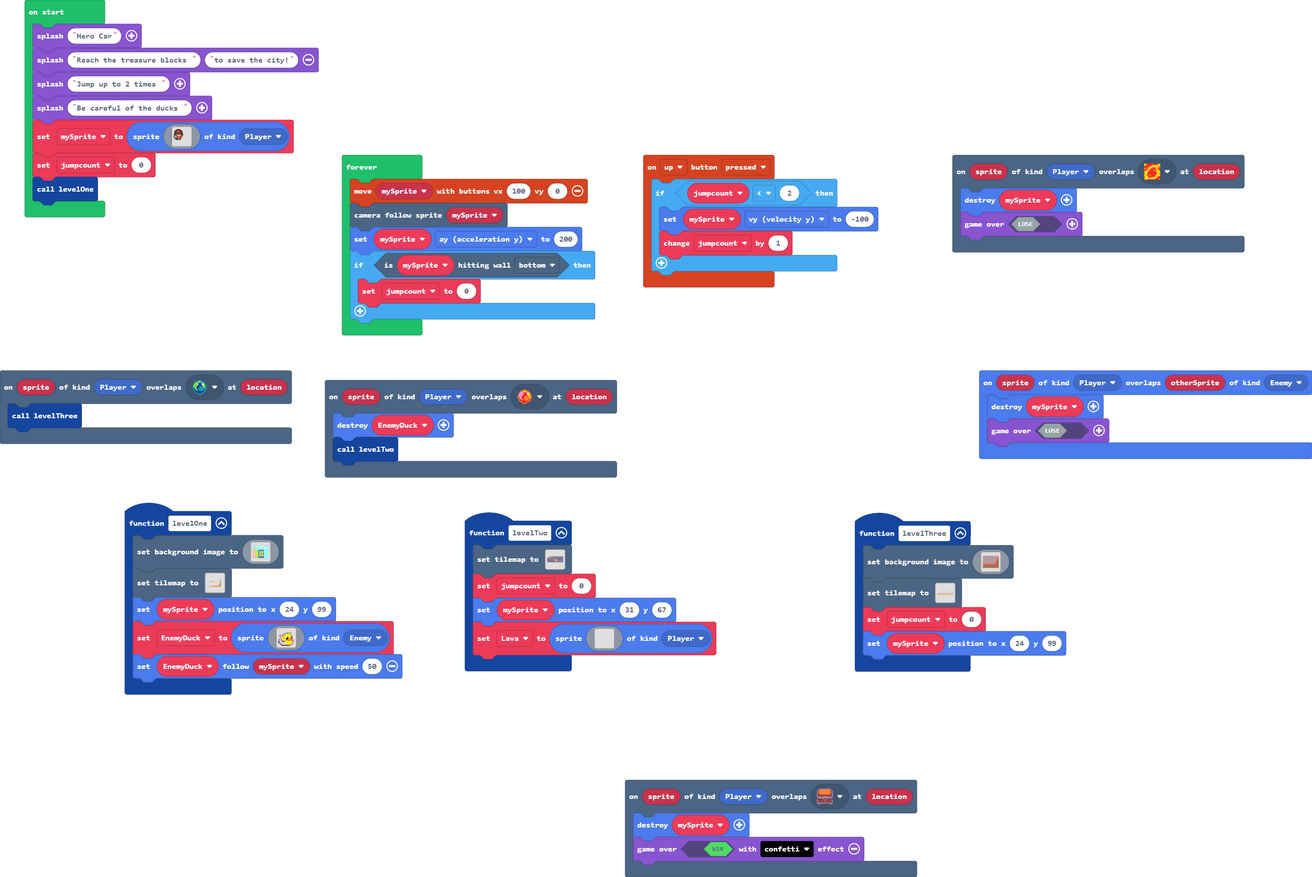
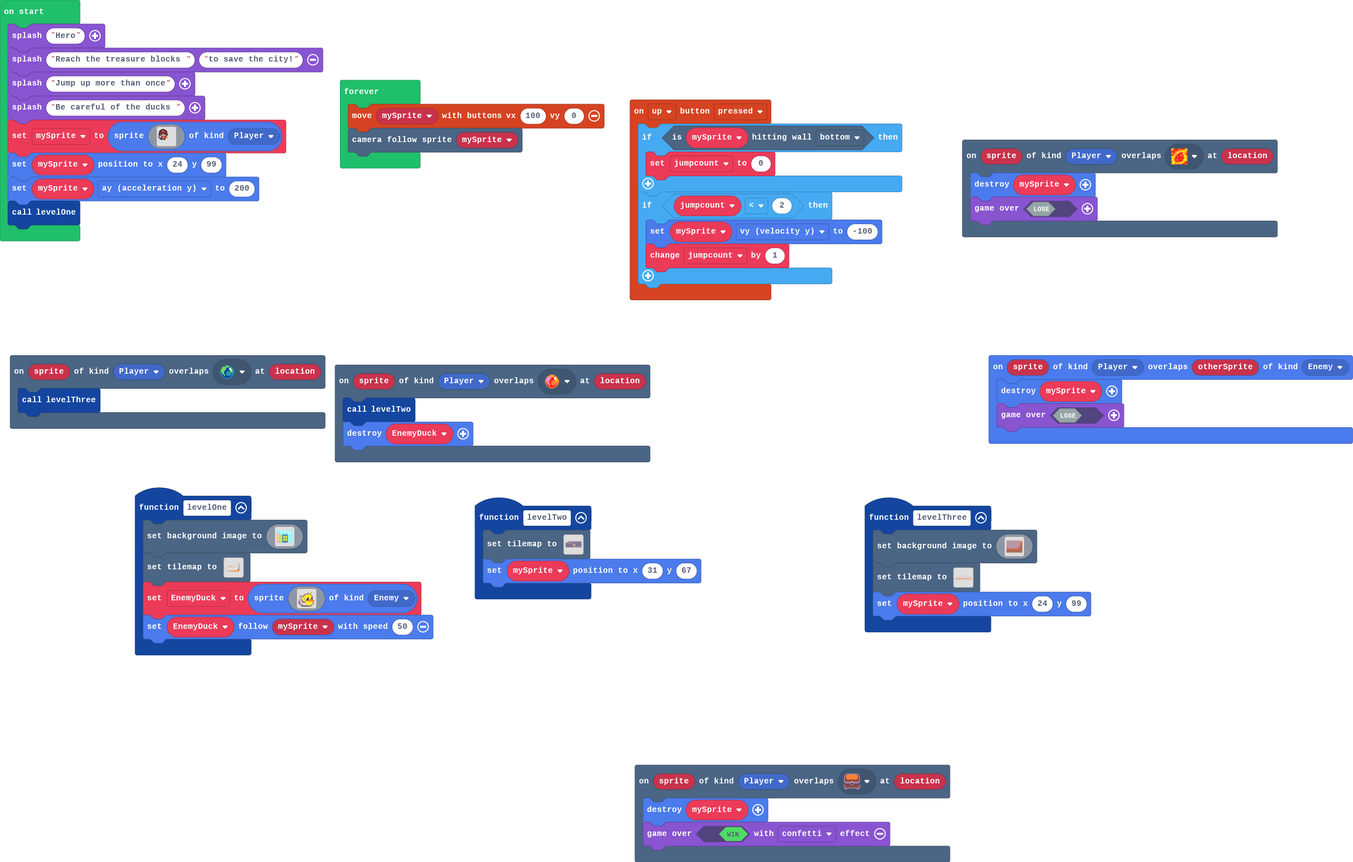
Update main.blocks, main.ts, tilemap.g.jres, tilemap.g.ts

diff --git a/tilemap.g.ts b/tilemap.g.ts
@@ -49,59 +49,6 @@ namespace myTiles {
 ......................................................................
 ......................................................................
 `, [myTiles.transparency16,sprites.vehicle.roadHorizontal,sprites.dungeon.hazardLava0,sprites.dungeon.chestClosed], TileScale.Sixteen);
-            case "level1":
-            case "level1":return tiles.createTilemap(hex`640032000000000000000000000000000000000000000000000000000000000000000000000000000000000000000000000000000000000000000000000000000000000000000000000000000000000000000000000000020200000000000000000000000000000000000000000000000000000000000000000000000000000000000000000000000000000000000000000000000000000000000000000000000000000000000000000000000000000000000000000000000000000202000000000000000000000000000000000000000000000000000000000000000000000000000000000000000000000000000000000000000000000000000000000000000000000000000000000000000000000000000000000000000000000000000002020000000000000000000000000000000000000000000000000000000000000000000000000000000000000000000000000000000000000000000000000000000000000000000000000000000000000000000000000000000000000000000000000000020200000000000000000000000000000000000000000000000000000000000000000000000000000000000000000000000000000000000000000000000000000000000000000000000000000000000000000000000000000000000000000000000000000202000000000000000000000000000000000000000000000000000000000000000000000000000000000000000000000000000000000000000000000000000000000000000000000000000000000000000000000000000000000000000000000000000002020000000000000000000000000000000000000000000000000000000000000000000000000000000000000000000000000000000000000000000000000000000000000000000000000000000000000000000000000000000000000000000000000001020200000000000000000000000000000000000000000000000000000000000000000000000000000000000000000000000000000000000000000000000000000000000000000000000000000000000000000000000000000000000000000000000000010202000000000000000000000000000000000000000000000000000000000000000000000000000000000000000000000000000000000000000000000000000000000000000000000000000000000000000000000000000000000000000000000000000102020000000000000000000000000000000000000000000000000000000000000000000000000000000000000000000000000000000000000000000000000000000000000000000000000000000000000000000000000000000000000000000000000001020200000000000000000000000000000000000000000000000000000000000000000000000000000000000000000000000000000000000000000000000000000000000000000000000000000000000000000000000000000000000000000000000000010202000000000000000000000000000000000000000000000000000000000000000000000000000000000000000000000000000000000400000000000000000000000000000000000000000000000000000000000000000000000000000000000000000102020000000000000000000000000000000000000000000000000000000000000000000000000000000000000000000000000000040000000000000000000000000000000000000000000000000000000000000000000000000000000000000000000001020200000000000000000000000000000000000000000000000000000000000000000000000000000000000000000000000000000000000404000000000000000000000000000000000000000000000404000000000000000000000000000000000000010202000000000000000000000000000000000000000000000000000000000000000000000000000000000004000000000004000000000000000000000000000000000000000000000000000000000000000000000000000000000000000000000000000102020000000000000000000000000000000000000000000000000000000000000000000000000000000004010101010101000000000000000404000000000000000000000000000000000000040000000000000400000000000000000000000000000001020200000000000000000000000000000000000000000000000000000000000000000000000000000004000101010101010000000000000000000000000000000000000000000000000400000000000000000000000000000000000000000000000000010202000000000000000000000000000000000000000000000000000000000000000000000000040000000001010101010100000000000000000000000000040000000400000004000000000000000000000000000000000000000000000000000000000102020000000000000000000000000000000000000000000000000000000000000000000000000000040404010101010101000000000000000000040400000000000000000000000000000000000000000000000000040000000000000000000000000001020200000000000000000000000000000000000000000000000000000000000000000000040401010101010101010101010000000000000000000000000000000000000000000000000000000000000000000000000000000000000000000000000000010202000000000000000000000000000000000000000000000000000000000000000000040505010101010101010101010101010101010101010101010101010101010101010101010101010101010101010504040400000000000000000000000000000102020000000000000000000000000000000000000000000000000000000000000000040505050101010101010101010101010101010101010101010101010101010101010101010101010101010101010105000000000000000000000000000000000001020200000000000000000000000000000000000000000000000000000000000004040505050505050505050505050505050505050505050505050505050505050505050505050505050505050505050505050000000404000000000000000000000000010202000000000000000000000000000000000000000000000000000000000000000505050505050505050505050505050505050505050505050505050505050505050505050505050505050505050505050500000000000000000400000000000000000102020000000000000000000000000000000000000000000000000000000000040105050505050505050505050505050505050505050505050505050505050505050505050505050505050505050505050505000000000000000000000000000000000001020200000000000000000000000000000000000000000000000000000000040505050505050505050505050505050505050505050505050505050505050505050505050505050505050505050505050505050000000000000000000000040400000400010202000000000000000000000000000000000000000000000000000000040505050505050505050505050505050505050505050505050505050505050505050505050505050505050505050505050505050500000000000000000000000000000000000102020000000000000000000000000000000000000000000000000000040505050505050505050505050505050505050505050505050505050505050505050505050505050505050505050505050505050505000000000000000000000000000004000001020200000000000000000000000000000000000000000000000000040505050505050505050505050505050505050505050505050505050505050505050505050505050505050505050505050505050505050000000000000000000000000000000000010202000000000000000000000000000000040404040404040404040505050505050505050505050505050505050505050505050505050505050505050505050505050505050505050505050505050505050500000000000000000000000000000004040102020000000000000000000000000000000505050505050505050505050505050505050505050505050505050505050505050505050505050505050505050505050505050505050505050505050505050505000000000000000000000000000400000001020200000000000000000000000000000005050505050505050505050505050505050505050505050505050505050505050505050505050505050505050505050505050505050505050505050505050505050000000000000000000000000000000001010202000000000000000000000000000000050505050505050505050505050505050505050505050505050505050505050505050505050505050505050505050505050505050505050505050505050505050500000000000000000000000404000001010202020000000000000000000000000000000000000000000000000000000000000000000000000000000000000000000000000000000000000000000000000000000000000000000000000000000000000000000000000000000000000000000000010202020200000000000000000000000000000000000000000000000000000000000000000000000000000000000000000000000000000000000000000000000000000000000000000000000000000000000000000000000000000000000004000000010102020202000000000000000000000000000000000000000000000000000000000000000000000000000000000000000000000000000000000000000000000000000000000000000000000000000000000000000000000000000000000004000000010102020202020000000000000000000000000000000000000000000000000000000000000000000000000000000000000000000000000000000000000000000000000000000000000000000000000000000000000000000000000000000000000000010102020202020200000000000000000000000000000000000000000000000000000000000000000000000000000000000000000000000000000000000000000000000000000000000000000000000000000000000000000000000000000000000000010102020202020202000000000000000000000000000000000000000000000000000000000000000000000000000000000000000000000000000000000000000000000000000000000000000000000000000000000000000000000000000000000400010102020202020202020000000000000000000000000000000000000000000000000000000000000000000000000000000000000000000000000000000000000000000000000000000000000000000000000000000000000000000000000000000000000102020202020202020200000000000000000000000000000000000000000000000000000000000000000000000000000000000000040000000004000000000000000000000000000000000000000000000000000000000000000000000000000000000101020202020202020202000000000000000000000000000000000000000000000000000000000000000000000404000000000000000000000000000000000400000000000000040000000000040004000000000000000004000000040000000004040101020202020202020202020000000000000000000000000000000000000000000000000000000000000000000000000000000400000000000000000000000000000000000000000000000000000000000000000000000000010101010101010101010101010101010101010101010100000000000000000000000000000000000000000000000000000000000000000000000000000000000000000000000000000000000000000004000000000004000000000000040000000400010101010101010101010101010101010101010101010101000000000000000000000000000000000000000000000000000000000000000004040404040505050101010101010101010101010101010101010101010101010101010101010101010101010101010101010101010101010101010101010101010101010000000000000000000000000000000000000000000000000000000000000004050505050505050101010101010101010101010101010101010101010101010101010101010101010101010101010101010101010101010101010101010101010101010100000000000000000000000000000000000000000000000000000000000004050505050505050101010101010101010101010101010101010101010101010101010101010101010101010101010101010101010101010101010101010101010101010101000000000000000000000000000000000000000000000600000000000004050505050505050101010101010101010101010101010101010101010101010101010101010101010101010101010101010101010101010101010101010101010101010101010000000000000000000000000000000303030303030307030303030304050505050505050101010101010101010101010101010101010101010101010101010101010101010101010101010101010101010101010101010101010101010101010101010100000000000000000000000000000004040404040404040404040404050505050505050101010101010101010101010101010101010101010101010101010101010101010101010101010101010101010101010101010101010101010101010101010101000000000000000000000000000000`, img`
-....................................................................................................
-....................................................................................................
-....................................................................................................
-....................................................................................................
-....................................................................................................
-....................................................................................................
-....................................................................................................
-....................................................................................................
-....................................................................................................
-....................................................................................................
-....................................................................................................
-.....................................2..............................................................
-...................................2................................................................
-......................................22......................22....................................
-..........................2.....2...................................................................
-.........................2.............22..................2......2.................................
-........................2...............................2...........................................
-.....................2.......................2...2...2..............................................
-.......................222...............22.........................2...............................
-...................22..222..........................................................................
-..................22222222......................................2222................................
-.................222222222222222222222222222222222222222222222222...................................
-...............22222222222222222222222222222222222222222222222222...22..............................
-................2222222222222222222222222222222222222222222222222........2..........................
-..............2.2222222222222222222222222222222222222222222222222...................................
-.............2222222222222222222222222222222222222222222222222222...........22..2...................
-............22222222222222222222222222222222222222222222222222222...................................
-...........222222222222222222222222222222222222222222222222222222..............2....................
-..........2222222222222222222222222222222222222222222222222222222...................................
-22222222222222222222222222222222222222222222222222222222222222222...............22..................
-22222222222222222222222222222222222222222222222222222222222222222.............2.....................
-22222222222222222222222222222222222222222222222222222222222222222...................................
-22222222222222222222222222222222222222222222222222222222222222222...........22......................
-....................................................................................................
-...........................................................................2........................
-..........................................................................2.........................
-....................................................................................................
-....................................................................................................
-.........................................................................2..........................
-....................................................................................................
-............................2....2..................................................................
-...................22................2.......2.....2.2........2...2....22...........................
-........................2...........................................................................
-..........................................2.....2......2...2........................................
-.................22222222...........................................................................
-................22222222............................................................................
-...............22222222.............................................................................
-..............22222222..............................................................................
-.............22222222...............................................................................
-22222222222222222222................................................................................
-`, [myTiles.transparency16,sprites.dungeon.hazardLava0,myTiles.tile2,sprites.builtin.coral2,sprites.vehicle.roadHorizontal,sprites.builtin.brick,sprites.dungeon.collectibleRedCrystal,sprites.builtin.coral0], TileScale.Sixteen);
             case "level4":
[1 lines of base64/hex data omitted]
 ...................2222222222......222222222222222222222222222222222222222222222222222222222222222222222222222222222222222222222222222222222
@@ -155,6 +102,78 @@ namespace myTiles {
 22222222222222222222222222222222222222222222222222222222222222222222222222222222222222222222222222222222222222222222222222222222222222222222
 22222222222222222222222222222222222222222222222222222222222222222222222222222222222222222222222222222222222222222222222222222222222222222222
 `, [myTiles.transparency16,sprites.dungeon.darkGroundCenter,sprites.dungeon.darkGroundSouthWest1,sprites.dungeon.floorLight0,sprites.builtin.oceanDepths4,sprites.builtin.oceanSand8,sprites.dungeon.hazardLava0,sprites.dungeon.hazardHole,sprites.dungeon.collectibleBlueCrystal], TileScale.Sixteen);
+            case "level1":
+            case "level1":return tiles.createTilemap(hex`640032000000000000000000000000000000000000000000000000000000000000000000000000000000000000000000000000000000000000000000000000000000000000000000000000000000000000000000000000020200000000000000000000000000000000000000000000000000000000000000000000000000000000000000000000000000000000000000000000000000000000000000000000000000000000000000000000000000000000000000000000000000000202000000000000000000000000000000000000000000000000000000000000000000000000000000000000000000000000000000000000000000000000000000000000000000000000000000000000000000000000000000000000000000000000000002020000000000000000000000000000000000000000000000000000000000000000000000000000000000000000000000000000000000000000000000000000000000000000000000000000000000000000000000000000000000000000000000000000020200000000000000000000000000000000000000000000000000000000000000000000000000000000000000000000000000000000000000000000000000000000000000000000000000000000000000000000000000000000000000000000000000000202000000000000000000000000000000000000000000000000000000000000000000000000000000000000000000000000000000000000000000000000000000000000000000000000000000000000000000000000000000000000000000000000000002020000000000000000000000000000000000000000000000000000000000000000000000000000000000000000000000000000000000000000000000000000000000000000000000000000000000000000000000000000000000000000000000000001020200000000000000000000000000000000000000000000000000000000000000000000000000000000000000000000000000000000000000000000000000000000000000000000000000000000000000000000000000000000000000000000000000010202000000000000000000000000000000000000000000000000000000000000000000000000000000000000000000000000000000000000000000000000000000000000000000000000000000000000000000000000000000000000000000000000000102020000000000000000000000000000000000000000000000000000000000000000000000000000000000000000000000000000000000000000000000000000000000000000000000000000000000000000000000000000000000000000000000000001020200000000000000000000000000000000000000000000000000000000000000000000000000000000000000000000000000000000000000000000000000000000000000000000000000000000000000000000000000000000000000000000000000010202000000000000000000000000000000000000000000000000000000000000000000000000000000000000000000000000000000000400000000000000000000000000000000000000000000000000000000000000000000000000000000000000000102020000000000000000000000000000000000000000000000000000000000000000000000000000000000000000000000000000040000000000000000000000000000000000000000000000000000000000000000000000000000000000000000000001020200000000000000000000000000000000000000000000000000000000000000000000000000000000000000000000000000000000000404000000000000000000000000000000000000000000000404000000000000000000000000000000000000010202000000000000000000000000000000000000000000000000000000000000000000000000000000000004000000000004000000000000000000000000000000000000000000000000000000000000000000000000000000000000000000000000000102020000000000000000000000000000000000000000000000000000000000000000000000000000000004010101010101000000000000000404000000000000000000000000000000000000040000000000000400000000000000000000000000000001020200000000000000000000000000000000000000000000000000000000000000000000000000000004000101010101010000000000000000000000000000000000000000000000000400000000000000000000000000000000000000000000000000010202000000000000000000000000000000000000000000000000000000000000000000000000040000000001010101010100000000000000000000000000040000000400000004000000000000000000000000000000000000000000000000000000000102020000000000000000000000000000000000000000000000000000000000000000000000000000040404010101010101000000000000000000040400000000000000000000000000000000000000000000000000040000000000000000000000000001020200000000000000000000000000000000000000000000000000000000000000000000040401010101010101010101010000000000000000000000000000000000000000000000000000000000000000000000000000000000000000000000000000010202000000000000000000000000000000000000000000000000000000000000000000040505010101010101010101010101010101010101010101010101010101010101010101010101010101010101010504040400000000000000000000000000000102020000000000000000000000000000000000000000000000000000000000000000040505050101010101010101010101010101010101010101010101010101010101010101010101010101010101010105000000000000000000000000000000000001020200000000000000000000000000000000000000000000000000000000000004040505050505050505050505050505050505050505050505050505050505050505050505050505050505050505050505050000000404000000000000000000000000010202000000000000000000000000000000000000000000000000000000000000000505050505050505050505050505050505050505050505050505050505050505050505050505050505050505050505050500000000000000000400000000000000000102020000000000000000000000000000000000000000000000000000000000040105050505050505050505050505050505050505050505050505050505050505050505050505050505050505050505050505000000000000000000000000000000000001020200000000000000000000000000000000000000000000000000000000040505050505050505050505050505050505050505050505050505050505050505050505050505050505050505050505050505050000000000000000000000040400000400010202000000000000000000000000000000000000000000000000000000040505050505050505050505050505050505050505050505050505050505050505050505050505050505050505050505050505050500000000000000000000000000000000000102020000000000000000000000000000000000000000000000000000040505050505050505050505050505050505050505050505050505050505050505050505050505050505050505050505050505050505000000000000000000000000000004000001020200000000000000000000000000000000000000000006000000040505050505050505050505050505050505050505050505050505050505050505050505050505050505050505050505050505050505050000000000000000000000000000000000010202000000000000000000000000000000040404040404040404040505050505050505050505050505050505050505050505050505050505050505050505050505050505050505050505050505050505050500000000000000000000000000000004040102020000000000000000000000000000000505050505050505050505050505050505050505050505050505050505050505050505050505050505050505050505050505050505050505050505050505050505000000000000000000000000000400000001020200000000000000000000000000000005050505050505050505050505050505050505050505050505050505050505050505050505050505050505050505050505050505050505050505050505050505050000000000000000000000000000000001010202000000000000000000000000000000050505050505050505050505050505050505050505050505050505050505050505050505050505050505050505050505050505050505050505050505050505050500000000000000000000000404000001010202020000000000000000000000000000000000000000000000000000000000000000000000000000000000000000000000000000000000000000000000000000000000000000000000000000000000000000000000000000000000000000000000010202020200000000000000000000000000000000000000000000000000000000000000000000000000000000000000000000000000000000000000000000000000000000000000000000000000000000000000000000000000000000000004000000010102020202000000000000000000000000000000000000000000000000000000000000000000000000000000000000000000000000000000000000000000000000000000000000000000000000000000000000000000000000000000000004000000010102020202020000000000000000000000000000000000000000000000000000000000000000000000000000000000000000000000000000000000000000000000000000000000000000000000000000000000000000000000000000000000000000010102020202020200000000000000000000000000000000000000000000000000000000000000000000000000000000000000000000000000000000000000000000000000000000000000000000000000000000000000000000000000000000000000010102020202020202000000000000000000000000000000000000000000000000000000000000000000000000000000000000000000000000000000000000000000000000000000000000000000000000000000000000000000000000000000000400010102020202020202020000000000000000000000000000000000000000000000000000000000000000000000000000000000000000000000000000000000000000000000000000000000000000000000000000000000000000000000000000000000000102020202020202020200000000000000000000000000000000000000000000000000000000000000000000000000000000000000040000000004000000000000000000000000000000000000000000000000000000000000000000000000000000000101020202020202020202000000000000000000000000000000000000000000000000000000000000000000000404000000000000000000000000000000000400000000000000040000000000040004000000000000000004000000040000000004040101020202020202020202020000000000000000000000000000000000000000000000000000000000000000000000000000000400000000000000000000000000000000000000000000000000000000000000000000000000010101010101010101010101010101010101010101010100000000000000000000000000000000000000000000000000000000000000000000000000000000000000000000000000000000000000000004000000000004000000000000040000000400010101010101010101010101010101010101010101010101000000000000000000000000000000000000000000000000000000000000000004040404040505050101010101010101010101010101010101010101010101010101010101010101010101010101010101010101010101010101010101010101010101010000000000000000000000000000000000000000000000000000000000000004050505050505050101010101010101010101010101010101010101010101010101010101010101010101010101010101010101010101010101010101010101010101010100000000000000000000000000000000000000000000000000000000000004050505050505050101010101010101010101010101010101010101010101010101010101010101010101010101010101010101010101010101010101010101010101010101000000000000000000000000000000000000000000000600000000000004050505050505050101010101010101010101010101010101010101010101010101010101010101010101010101010101010101010101010101010101010101010101010101010000000000000000000000000000000303030303030307030303030304050505050505050101010101010101010101010101010101010101010101010101010101010101010101010101010101010101010101010101010101010101010101010101010100000000000000000000000000000004040404040404040404040404050505050505050101010101010101010101010101010101010101010101010101010101010101010101010101010101010101010101010101010101010101010101010101010101000000000000000000000000000000`, img`
+....................................................................................................
+....................................................................................................
+....................................................................................................
+....................................................................................................
+....................................................................................................
+....................................................................................................
+....................................................................................................
+....................................................................................................
+....................................................................................................
+....................................................................................................
+....................................................................................................
+.....................................2..............................................................
+...................................2................................................................
+......................................22......................22....................................
+..........................2.....2...................................................................
+.........................2.............22..................2......2.................................
+........................2...............................2...........................................
+.....................2.......................2...2...2..............................................
+.......................222...............22.........................2...............................
+...................22..222..........................................................................
+..................22222222......................................2222................................
+.................222222222222222222222222222222222222222222222222...................................
+...............22222222222222222222222222222222222222222222222222...22..............................
+................2222222222222222222222222222222222222222222222222........2..........................
+..............2.2222222222222222222222222222222222222222222222222...................................
+.............2222222222222222222222222222222222222222222222222222...........22..2...................
+............22222222222222222222222222222222222222222222222222222...................................
+...........222222222222222222222222222222222222222222222222222222..............2....................
+..........2222222222222222222222222222222222222222222222222222222...................................
+22222222222222222222222222222222222222222222222222222222222222222...............22..................
+22222222222222222222222222222222222222222222222222222222222222222.............2.....................
+22222222222222222222222222222222222222222222222222222222222222222...................................
+22222222222222222222222222222222222222222222222222222222222222222...........22......................
+....................................................................................................
+...........................................................................2........................
+..........................................................................2.........................
+....................................................................................................
+....................................................................................................
+.........................................................................2..........................
+....................................................................................................
+............................2....2..................................................................
+...................22................2.......2.....2.2........2...2....22...........................
+........................2...........................................................................
+..........................................2.....2......2...2........................................
+.................22222222...........................................................................
+................22222222............................................................................
+...............22222222.............................................................................
+..............22222222..............................................................................
+.............22222222...............................................................................
+22222222222222222222................................................................................
+`, [myTiles.transparency16,sprites.dungeon.hazardLava0,myTiles.tile2,sprites.builtin.coral2,sprites.vehicle.roadHorizontal,sprites.builtin.brick,sprites.dungeon.collectibleRedCrystal,sprites.builtin.coral0], TileScale.Sixteen);
+            case "level5":
+            case "level5":return tiles.createTilemap(hex`1000100000000000000000000000000000000000000000000000000000000000000000000000000000000000000000000000000000000000000000000000000000000000000000000000000000000000000000000000000000000000000000000000000000000000000000000000000000000000000000000000000000000000000000000000000000000000000000000000000000000000000000000000000000000000000000000000000000000000000000000000000000000000000000000000000000000000000000000000000000000000000000000000000000000000000000000000000000000000000000000000000000000000000000000000000000000000`, img`
+. . . . . . . . . . . . . . . . 
+. . . . . . . . . . . . . . . . 
+. . . . . . . . . . . . . . . . 
+. . . . . . . . . . . . . . . . 
+. . . . . . . . . . . . . . . . 
+. . . . . . . . . . . . . . . . 
+. . . . . . . . . . . . . . . . 
+. . . . . . . . . . . . . . . . 
+. . . . . . . . . . . . . . . . 
+. . . . . . . . . . . . . . . . 
+. . . . . . . . . . . . . . . . 
+. . . . . . . . . . . . . . . . 
+. . . . . . . . . . . . . . . . 
+. . . . . . . . . . . . . . . . 
+. . . . . . . . . . . . . . . . 
+. . . . . . . . . . . . . . . . 
+`, [myTiles.transparency16], TileScale.Sixteen);
         }
         return null;
     })

diff --git a/main.ts b/main.ts
@@ -125,10 +125,12 @@ function levelThree () {
         eeeeeeeeeeeeeeeeeeeeeeeeeeeeeeeeeeeeeeeeeeeeeeeeeeeeeeeeeeeeeeeeeeeeeeeeeeeeeeeeeeeeeeeeeeeeeeeeeeeeeeeeeeeeeeeeeeeeeeeeeeeeeeeeeeeeeeeeeeeeeeeeeeeeeeeeeeeeeeee
         `)
     tiles.setTilemap(tilemap`level3`)
-    jumpcount = 0
     mySprite.setPosition(24, 99)
 }
 controller.up.onEvent(ControllerButtonEvent.Pressed, function () {
+    if (mySprite.isHittingTile(CollisionDirection.Bottom)) {
+        jumpcount = 0
+    }
     if (jumpcount < 2) {
         mySprite.vy = -100
         jumpcount += 1
@@ -262,7 +264,6 @@ function levelOne () {
         3333333333333333333333333333337777777777777777777777777777788888888888888888888888888888888888888888888888888888999999999999999999999999999999999999999999999999
         `)
     tiles.setTilemap(tilemap`level1`)
-    mySprite.setPosition(24, 99)
     EnemyDuck = sprites.create(img`
         . . . . . . . . . . . . . . . . 
         . . . . . . . . . . . . . . . . 
@@ -291,43 +292,23 @@ scene.onOverlapTile(SpriteKind.Player, sprites.dungeon.chestClosed, function (sp
     game.over(true, effects.confetti)
 })
 scene.onOverlapTile(SpriteKind.Player, sprites.dungeon.collectibleRedCrystal, function (sprite, location) {
-    EnemyDuck.destroy()
     levelTwo()
+    EnemyDuck.destroy()
 })
 function levelTwo () {
     tiles.setTilemap(tilemap`level4`)
-    jumpcount = 0
     mySprite.setPosition(31, 67)
-    Lava = sprites.create(img`
-        . . . . . . . . . . . . . . . . 
-        . . . . . . . . . . . . . . . . 
-        . . . . . . . . . . . . . . . . 
-        . . . . . . . . . . . . . . . . 
-        . . . . . . . . . . . . . . . . 
-        . . . . . . . . . . . . . . . . 
-        . . . . . . . . . . . . . . . . 
-        . . . . . . . . . . . . . . . . 
-        . . . . . . . . . . . . . . . . 
-        . . . . . . . . . . . . . . . . 
-        . . . . . . . . . . . . . . . . 
-        . . . . . . . . . . . . . . . . 
-        . . . . . . . . . . . . . . . . 
-        . . . . . . . . . . . . . . . . 
-        . . . . . . . . . . . . . . . . 
-        . . . . . . . . . . . . . . . . 
-        `, SpriteKind.Player)
 }
 sprites.onOverlap(SpriteKind.Player, SpriteKind.Enemy, function (sprite, otherSprite) {
     mySprite.destroy()
     game.over(false)
 })
-let Lava: Sprite = null
 let EnemyDuck: Sprite = null
 let jumpcount = 0
 let mySprite: Sprite = null
-game.splash("Hero Car")
+game.splash("Hero")
 game.splash("Reach the treasure blocks ", "to save the city!")
-game.splash("Jump up to 2 times ")
+game.splash("Jump up more than once")
 game.splash("Be careful of the ducks ")
 mySprite = sprites.create(img`
     ........................
@@ -355,13 +336,10 @@ mySprite = sprites.create(img`
     ........................
     ........................
     `, SpriteKind.Player)
-jumpcount = 0
+mySprite.setPosition(24, 99)
+mySprite.ay = 200
 levelOne()
 forever(function () {
     controller.moveSprite(mySprite, 100, 0)
     scene.cameraFollowSprite(mySprite)
-    mySprite.ay = 200
-    if (mySprite.isHittingTile(CollisionDirection.Bottom)) {
-        jumpcount = 0
-    }
 })
